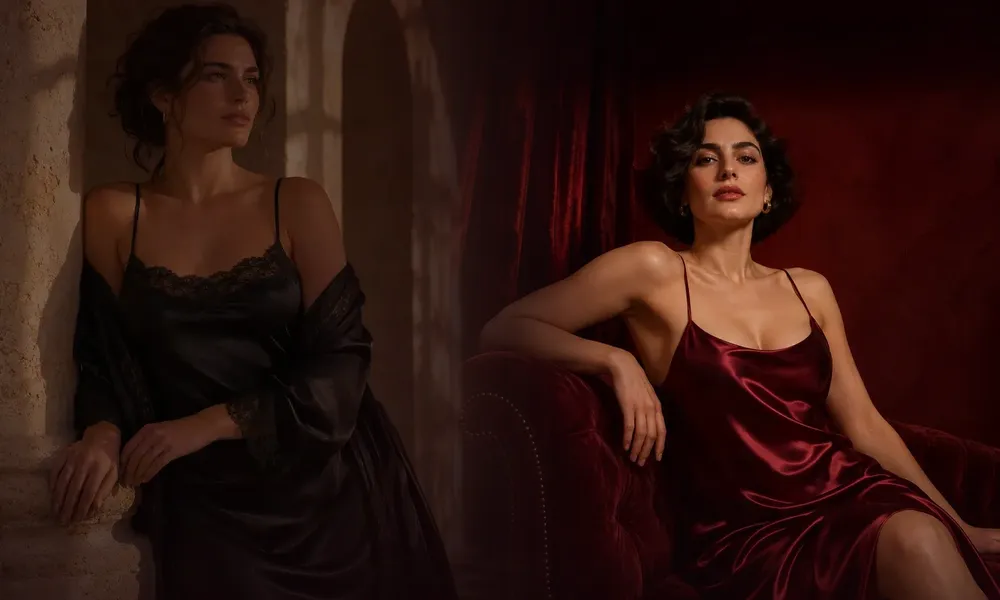
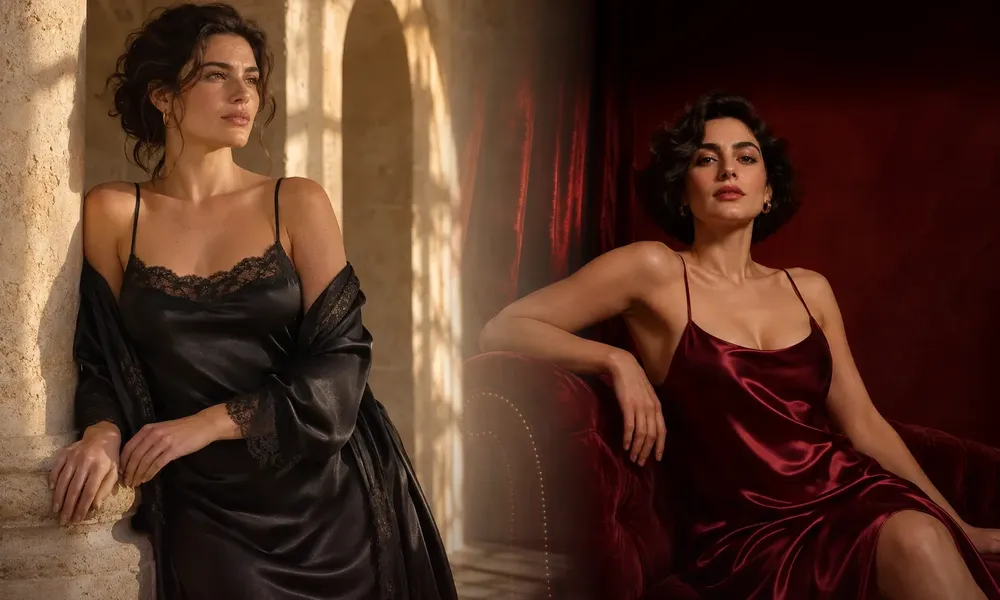
Split hero: both looks at full colour, VS-style soft blend; no dimming on switch

diff --git a/source/prep-split-hero.js b/source/prep-split-hero.js
@@ -1,5 +1,5 @@
 // Split hero: Lavermo look (noir campaign, piece O10) on the left, Purey satin on the right,
-// graded into one wine-dark room with a soft seam.  node prep-split-hero.js  (writes ../site/img)
+// side by side at full colour, joined by a soft seam.  node prep-split-hero.js  (writes ../site/img)
 const sharp = require('C:/Users/Admin/GitHub/flann-dashboard/node_modules/sharp');
 const path = require('path');
 const IMG = path.join(__dirname, '../site/img');
@@ -7,29 +7,25 @@ const P = (f) => path.join(IMG, f);
 
 async function blend({ w, h, L, lx, lw, R, rx, rw, f }) {
   const crop = (img, x, cw) => sharp(P(img)).resize({ height: h }).extract({ left: x, top: 0, width: cw, height: h });
-  // pull the sunlit stone toward the wine room: darker, warmer, less saturated
-  let left = await crop(L, lx, lw).modulate({ brightness: 0.74, saturation: 0.82 }).toBuffer();
-  const tint = await sharp({ create: { width: lw, height: h, channels: 4, background: { r: 120, g: 28, b: 40, alpha: 0.34 } } }).png().toBuffer();
-  // the sunlit arch beside the seam falls into the same shadow as the velvet curtain
-  const edge = Buffer.from(`<svg width="${lw}" height="${h}"><defs><linearGradient id="e" x1="0" x2="1"><stop offset=".5" stop-color="#1a0609" stop-opacity="0"/><stop offset="1" stop-color="#1a0609" stop-opacity=".78"/></linearGradient></defs><rect width="100%" height="100%" fill="url(#e)"/></svg>`);
-  left = await sharp(left).composite([{ input: tint, blend: 'soft-light' }, { input: tint, blend: 'multiply' }, { input: edge }]).toBuffer();
+  // both looks keep their own colour (VS / PINK style): no grading, only a soft blend at the seam
+  const left = await crop(L, lx, lw).toBuffer();
   const right = await crop(R, rx, rw).toBuffer();
   const mask = Buffer.from(`<svg width="${rw}" height="${h}"><defs><linearGradient id="g" x1="0" x2="1"><stop offset="0" stop-color="#fff" stop-opacity="0"/><stop offset="${f / rw}" stop-color="#fff"/></linearGradient></defs><rect width="100%" height="100%" fill="url(#g)"/></svg>`);
   const rightM = await sharp(right).ensureAlpha().composite([{ input: mask, blend: 'dest-in' }]).png().toBuffer();
   const seam = w - rw;
+  if (lw < seam + f) throw new Error('left look must reach under the whole seam');
   const shade = Buffer.from(`<svg width="${w}" height="${h}"><defs>
-    <linearGradient id="s" x1="0" x2="1"><stop offset="${(seam - f * 0.4) / w}" stop-color="#14060a" stop-opacity="0"/><stop offset="${(seam + f * 0.5) / w}" stop-color="#14060a" stop-opacity=".45"/><stop offset="${(seam + f * 1.3) / w}" stop-color="#14060a" stop-opacity="0"/></linearGradient>
-    <linearGradient id="v" x1="0" y1="0" x2="0" y2="1"><stop offset="0" stop-color="#14060a" stop-opacity=".25"/><stop offset=".35" stop-color="#14060a" stop-opacity="0"/><stop offset=".7" stop-color="#14060a" stop-opacity="0"/><stop offset="1" stop-color="#14060a" stop-opacity=".55"/></linearGradient>
-    </defs><rect width="100%" height="100%" fill="url(#s)"/><rect width="100%" height="100%" fill="url(#v)"/></svg>`);
+        <linearGradient id="v" x1="0" y1="0" x2="0" y2="1"><stop offset="0" stop-color="#14060a" stop-opacity="0"/><stop offset=".35" stop-color="#14060a" stop-opacity="0"/><stop offset=".7" stop-color="#14060a" stop-opacity="0"/><stop offset="1" stop-color="#14060a" stop-opacity=".35"/></linearGradient>
+    </defs><rect width="100%" height="100%" fill="url(#v)"/></svg>`);
   return sharp({ create: { width: w, height: h, channels: 3, background: '#1a0609' } })
     .composite([{ input: left, left: 0, top: 0 }, { input: rightM, left: seam, top: 0 }, { input: shade, left: 0, top: 0 }]).png().toBuffer();
 }
 
 (async () => {
-  const wide = await blend({ w: 1600, h: 960, L: 'purey-noir-wide-1440.webp', lx: 60, lw: 880, R: 'purey-satin-wide-1440.webp', rx: 0, rw: 900, f: 260 });
+  const wide = await blend({ w: 1600, h: 960, L: 'purey-noir-wide-1440.webp', lx: 60, lw: 960, R: 'purey-satin-wide-1440.webp', rx: 0, rw: 900, f: 260 });
   await sharp(wide).webp({ quality: 82 }).toFile(P('hero-split-1600.webp'));
   await sharp(wide).resize({ width: 1000 }).webp({ quality: 80 }).toFile(P('hero-split-1000.webp'));
-  const mob = await blend({ w: 680, h: 1200, L: 'purey-noir-mobile-800.webp', lx: 120, lw: 370, R: 'purey-satin-mobile-800.webp', rx: 225, rw: 340, f: 34 });
+  const mob = await blend({ w: 680, h: 1200, L: 'purey-noir-mobile-800.webp', lx: 120, lw: 410, R: 'purey-satin-mobile-800.webp', rx: 225, rw: 340, f: 70 });
   await sharp(mob).webp({ quality: 80 }).toFile(P('hero-split-mobile-680.webp'));
   await sharp(mob).resize({ width: 440 }).webp({ quality: 80 }).toFile(P('hero-split-mobile-440.webp'));
   console.log('split hero written');

diff --git a/site/index.html b/site/index.html
@@ -1843,10 +1843,6 @@ dialog.sheet.editorial-drawer{
 .campaign-split img{object-position:center 18%}
 .campaign-split::after{content:"";position:absolute;inset:auto 0 0;height:42%;z-index:-1;pointer-events:none;
   background:linear-gradient(to top,rgba(20,6,10,.82),transparent)}
-/* Lavermo selected: the Purey half (physical right) steps back */
-.campaign-split .split-dim{position:absolute;inset:0;z-index:-1;pointer-events:none;opacity:0;transition:opacity .5s ease;
-  background:linear-gradient(to left,rgba(14,4,7,.66) 0 42%,transparent 58%)}
-html[data-brand="lavermo"] .campaign-split .split-dim{opacity:1}
 .campaign-split .campaign-copy{position:relative;right:auto;left:auto;top:auto;bottom:auto;translate:none;
   justify-self:center;justify-items:center;text-align:center;gap:16px}
 .campaign-split .campaign-title{contain:none;white-space:normal;font:400 clamp(30px,3.1vw,46px)/1.15 var(--f-serif);
@@ -1858,7 +1854,6 @@ html[data-brand="lavermo"] .campaign-split .split-dim{opacity:1}
   .campaign-split .campaign-title{font-size:clamp(26px,7.4vw,32px)}
   .campaign-split .campaign-action{min-height:48px;padding-inline:26px;font-size:15px}
 }
-@media(prefers-reduced-motion:reduce){ .campaign-split .split-dim{transition:none} }
 
 .brand-tabs{display:grid;grid-template-columns:1fr 1fr;width:100%;background:#fff;border-block:1px solid #e7e7e7}
 .brand-tab{position:relative;display:grid;place-items:center;min-height:clamp(54px,5.2vw,72px);margin:0;padding:0 12px;
@@ -1947,9 +1942,7 @@ html[data-brand="lavermo"] .campaign-split .split-dim{opacity:1}
         <picture>
           <source media="(max-width: 700px)" srcset="img/hero-split-mobile-440.webp 440w, img/hero-split-mobile-680.webp 680w" sizes="100vw">
           <img src="img/hero-split-1600.webp" srcset="img/hero-split-1000.webp 1000w, img/hero-split-1600.webp 1600w" sizes="100vw" width="1600" height="960" alt="إطلالتان: قميص نوم أسود بالدانتيل مع روب من Lavermo، وقميص نوم ستان عنابي من بيوري" fetchpriority="high">
-        </picture>
-        <span class="split-dim" aria-hidden="true"></span>
-        <div class="campaign-copy">
+        </picture>        <div class="campaign-copy">
           <h1 class="campaign-title" id="purey-campaign">أفضل كولكشن في ليبيا</h1>
           <a class="campaign-action" href="#cats"><img class="campaign-butterfly" src="img/logo-icon.png" alt="" width="293" height="179"><span class="campaign-action-label">تصفّح كل التشكيلات</span></a>
         </div>

diff --git a/source/purey-src.html b/source/purey-src.html
@@ -1016,10 +1016,6 @@ html.ask-visible .ai-launch{opacity:0;transform:scale(.9);pointer-events:none}
 .campaign-split img{object-position:center 18%}
 .campaign-split::after{content:"";position:absolute;inset:auto 0 0;height:42%;z-index:-1;pointer-events:none;
   background:linear-gradient(to top,rgba(20,6,10,.82),transparent)}
-/* Lavermo selected: the Purey half (physical right) steps back */
-.campaign-split .split-dim{position:absolute;inset:0;z-index:-1;pointer-events:none;opacity:0;transition:opacity .5s ease;
-  background:linear-gradient(to left,rgba(14,4,7,.66) 0 42%,transparent 58%)}
-html[data-brand="lavermo"] .campaign-split .split-dim{opacity:1}
 .campaign-split .campaign-copy{position:relative;right:auto;left:auto;top:auto;bottom:auto;translate:none;
   justify-self:center;justify-items:center;text-align:center;gap:16px}
 .campaign-split .campaign-title{contain:none;white-space:normal;font:400 clamp(30px,3.1vw,46px)/1.15 var(--f-serif);
@@ -1031,7 +1027,6 @@ html[data-brand="lavermo"] .campaign-split .split-dim{opacity:1}
   .campaign-split .campaign-title{font-size:clamp(26px,7.4vw,32px)}
   .campaign-split .campaign-action{min-height:48px;padding-inline:26px;font-size:15px}
 }
-@media(prefers-reduced-motion:reduce){ .campaign-split .split-dim{transition:none} }
 </style>
 
 <div class="page" dir="rtl" lang="ar">
@@ -1074,9 +1069,7 @@ html[data-brand="lavermo"] .campaign-split .split-dim{opacity:1}
         <picture>
           <source media="(max-width: 700px)" srcset="img/hero-split-mobile-440.webp 440w, img/hero-split-mobile-680.webp 680w" sizes="100vw">
           <img src="img/hero-split-1600.webp" srcset="img/hero-split-1000.webp 1000w, img/hero-split-1600.webp 1600w" sizes="100vw" width="1600" height="960" alt="إطلالتان: قميص نوم أسود بالدانتيل مع روب من Lavermo، وقميص نوم ستان عنابي من بيوري" fetchpriority="high">
-        </picture>
-        <span class="split-dim" aria-hidden="true"></span>
-        <div class="campaign-copy">
+        </picture>        <div class="campaign-copy">
           <h1 class="campaign-title" id="purey-campaign">أفضل كولكشن في ليبيا</h1>
           <a class="campaign-action" href="#cats"><img class="campaign-butterfly" src="img/logo-icon.png" alt="" width="293" height="179"><span class="campaign-action-label">تصفّح كل التشكيلات</span></a>
         </div>

diff --git a/site/cotton.html b/site/cotton.html
@@ -1842,10 +1842,6 @@ dialog.sheet.editorial-drawer{
 .campaign-split img{object-position:center 18%}
 .campaign-split::after{content:"";position:absolute;inset:auto 0 0;height:42%;z-index:-1;pointer-events:none;
   background:linear-gradient(to top,rgba(20,6,10,.82),transparent)}
-/* Lavermo selected: the Purey half (physical right) steps back */
-.campaign-split .split-dim{position:absolute;inset:0;z-index:-1;pointer-events:none;opacity:0;transition:opacity .5s ease;
-  background:linear-gradient(to left,rgba(14,4,7,.66) 0 42%,transparent 58%)}
-html[data-brand="lavermo"] .campaign-split .split-dim{opacity:1}
 .campaign-split .campaign-copy{position:relative;right:auto;left:auto;top:auto;bottom:auto;translate:none;
   justify-self:center;justify-items:center;text-align:center;gap:16px}
 .campaign-split .campaign-title{contain:none;white-space:normal;font:400 clamp(30px,3.1vw,46px)/1.15 var(--f-serif);
@@ -1857,7 +1853,6 @@ html[data-brand="lavermo"] .campaign-split .split-dim{opacity:1}
   .campaign-split .campaign-title{font-size:clamp(26px,7.4vw,32px)}
   .campaign-split .campaign-action{min-height:48px;padding-inline:26px;font-size:15px}
 }
-@media(prefers-reduced-motion:reduce){ .campaign-split .split-dim{transition:none} }
 
 .brand-tabs{display:grid;grid-template-columns:1fr 1fr;width:100%;background:#fff;border-block:1px solid #e7e7e7}
 .brand-tab{position:relative;display:grid;place-items:center;min-height:clamp(54px,5.2vw,72px);margin:0;padding:0 12px;

diff --git a/site/lavermo.html b/site/lavermo.html
@@ -1842,10 +1842,6 @@ dialog.sheet.editorial-drawer{
 .campaign-split img{object-position:center 18%}
 .campaign-split::after{content:"";position:absolute;inset:auto 0 0;height:42%;z-index:-1;pointer-events:none;
   background:linear-gradient(to top,rgba(20,6,10,.82),transparent)}
-/* Lavermo selected: the Purey half (physical right) steps back */
-.campaign-split .split-dim{position:absolute;inset:0;z-index:-1;pointer-events:none;opacity:0;transition:opacity .5s ease;
-  background:linear-gradient(to left,rgba(14,4,7,.66) 0 42%,transparent 58%)}
-html[data-brand="lavermo"] .campaign-split .split-dim{opacity:1}
 .campaign-split .campaign-copy{position:relative;right:auto;left:auto;top:auto;bottom:auto;translate:none;
   justify-self:center;justify-items:center;text-align:center;gap:16px}
 .campaign-split .campaign-title{contain:none;white-space:normal;font:400 clamp(30px,3.1vw,46px)/1.15 var(--f-serif);
@@ -1857,7 +1853,6 @@ html[data-brand="lavermo"] .campaign-split .split-dim{opacity:1}
   .campaign-split .campaign-title{font-size:clamp(26px,7.4vw,32px)}
   .campaign-split .campaign-action{min-height:48px;padding-inline:26px;font-size:15px}
 }
-@media(prefers-reduced-motion:reduce){ .campaign-split .split-dim{transition:none} }
 
 .brand-tabs{display:grid;grid-template-columns:1fr 1fr;width:100%;background:#fff;border-block:1px solid #e7e7e7}
 .brand-tab{position:relative;display:grid;place-items:center;min-height:clamp(54px,5.2vw,72px);margin:0;padding:0 12px;

diff --git a/site/lingerie.html b/site/lingerie.html
@@ -1842,10 +1842,6 @@ dialog.sheet.editorial-drawer{
 .campaign-split img{object-position:center 18%}
 .campaign-split::after{content:"";position:absolute;inset:auto 0 0;height:42%;z-index:-1;pointer-events:none;
   background:linear-gradient(to top,rgba(20,6,10,.82),transparent)}
-/* Lavermo selected: the Purey half (physical right) steps back */
-.campaign-split .split-dim{position:absolute;inset:0;z-index:-1;pointer-events:none;opacity:0;transition:opacity .5s ease;
-  background:linear-gradient(to left,rgba(14,4,7,.66) 0 42%,transparent 58%)}
-html[data-brand="lavermo"] .campaign-split .split-dim{opacity:1}
 .campaign-split .campaign-copy{position:relative;right:auto;left:auto;top:auto;bottom:auto;translate:none;
   justify-self:center;justify-items:center;text-align:center;gap:16px}
 .campaign-split .campaign-title{contain:none;white-space:normal;font:400 clamp(30px,3.1vw,46px)/1.15 var(--f-serif);
@@ -1857,7 +1853,6 @@ html[data-brand="lavermo"] .campaign-split .split-dim{opacity:1}
   .campaign-split .campaign-title{font-size:clamp(26px,7.4vw,32px)}
   .campaign-split .campaign-action{min-height:48px;padding-inline:26px;font-size:15px}
 }
-@media(prefers-reduced-motion:reduce){ .campaign-split .split-dim{transition:none} }
 
 .brand-tabs{display:grid;grid-template-columns:1fr 1fr;width:100%;background:#fff;border-block:1px solid #e7e7e7}
 .brand-tab{position:relative;display:grid;place-items:center;min-height:clamp(54px,5.2vw,72px);margin:0;padding:0 12px;

diff --git a/site/product-pages.css b/site/product-pages.css
@@ -1832,10 +1832,6 @@ dialog.sheet.editorial-drawer{
 .campaign-split img{object-position:center 18%}
 .campaign-split::after{content:"";position:absolute;inset:auto 0 0;height:42%;z-index:-1;pointer-events:none;
   background:linear-gradient(to top,rgba(20,6,10,.82),transparent)}
-/* Lavermo selected: the Purey half (physical right) steps back */
-.campaign-split .split-dim{position:absolute;inset:0;z-index:-1;pointer-events:none;opacity:0;transition:opacity .5s ease;
-  background:linear-gradient(to left,rgba(14,4,7,.66) 0 42%,transparent 58%)}
-html[data-brand="lavermo"] .campaign-split .split-dim{opacity:1}
 .campaign-split .campaign-copy{position:relative;right:auto;left:auto;top:auto;bottom:auto;translate:none;
   justify-self:center;justify-items:center;text-align:center;gap:16px}
 .campaign-split .campaign-title{contain:none;white-space:normal;font:400 clamp(30px,3.1vw,46px)/1.15 var(--f-serif);
@@ -1847,7 +1843,6 @@ html[data-brand="lavermo"] .campaign-split .split-dim{opacity:1}
   .campaign-split .campaign-title{font-size:clamp(26px,7.4vw,32px)}
   .campaign-split .campaign-action{min-height:48px;padding-inline:26px;font-size:15px}
 }
-@media(prefers-reduced-motion:reduce){ .campaign-split .split-dim{transition:none} }
 
 .brand-tabs{display:grid;grid-template-columns:1fr 1fr;width:100%;background:#fff;border-block:1px solid #e7e7e7}
 .brand-tab{position:relative;display:grid;place-items:center;min-height:clamp(54px,5.2vw,72px);margin:0;padding:0 12px;

diff --git a/site/robes.html b/site/robes.html
@@ -1842,10 +1842,6 @@ dialog.sheet.editorial-drawer{
 .campaign-split img{object-position:center 18%}
 .campaign-split::after{content:"";position:absolute;inset:auto 0 0;height:42%;z-index:-1;pointer-events:none;
   background:linear-gradient(to top,rgba(20,6,10,.82),transparent)}
-/* Lavermo selected: the Purey half (physical right) steps back */
-.campaign-split .split-dim{position:absolute;inset:0;z-index:-1;pointer-events:none;opacity:0;transition:opacity .5s ease;
-  background:linear-gradient(to left,rgba(14,4,7,.66) 0 42%,transparent 58%)}
-html[data-brand="lavermo"] .campaign-split .split-dim{opacity:1}
 .campaign-split .campaign-copy{position:relative;right:auto;left:auto;top:auto;bottom:auto;translate:none;
   justify-self:center;justify-items:center;text-align:center;gap:16px}
 .campaign-split .campaign-title{contain:none;white-space:normal;font:400 clamp(30px,3.1vw,46px)/1.15 var(--f-serif);
@@ -1857,7 +1853,6 @@ html[data-brand="lavermo"] .campaign-split .split-dim{opacity:1}
   .campaign-split .campaign-title{font-size:clamp(26px,7.4vw,32px)}
   .campaign-split .campaign-action{min-height:48px;padding-inline:26px;font-size:15px}
 }
-@media(prefers-reduced-motion:reduce){ .campaign-split .split-dim{transition:none} }
 
 .brand-tabs{display:grid;grid-template-columns:1fr 1fr;width:100%;background:#fff;border-block:1px solid #e7e7e7}
 .brand-tab{position:relative;display:grid;place-items:center;min-height:clamp(54px,5.2vw,72px);margin:0;padding:0 12px;

diff --git a/site/satin.html b/site/satin.html
@@ -1842,10 +1842,6 @@ dialog.sheet.editorial-drawer{
 .campaign-split img{object-position:center 18%}
 .campaign-split::after{content:"";position:absolute;inset:auto 0 0;height:42%;z-index:-1;pointer-events:none;
   background:linear-gradient(to top,rgba(20,6,10,.82),transparent)}
-/* Lavermo selected: the Purey half (physical right) steps back */
-.campaign-split .split-dim{position:absolute;inset:0;z-index:-1;pointer-events:none;opacity:0;transition:opacity .5s ease;
-  background:linear-gradient(to left,rgba(14,4,7,.66) 0 42%,transparent 58%)}
-html[data-brand="lavermo"] .campaign-split .split-dim{opacity:1}
 .campaign-split .campaign-copy{position:relative;right:auto;left:auto;top:auto;bottom:auto;translate:none;
   justify-self:center;justify-items:center;text-align:center;gap:16px}
 .campaign-split .campaign-title{contain:none;white-space:normal;font:400 clamp(30px,3.1vw,46px)/1.15 var(--f-serif);
@@ -1857,7 +1853,6 @@ html[data-brand="lavermo"] .campaign-split .split-dim{opacity:1}
   .campaign-split .campaign-title{font-size:clamp(26px,7.4vw,32px)}
   .campaign-split .campaign-action{min-height:48px;padding-inline:26px;font-size:15px}
 }
-@media(prefers-reduced-motion:reduce){ .campaign-split .split-dim{transition:none} }
 
 .brand-tabs{display:grid;grid-template-columns:1fr 1fr;width:100%;background:#fff;border-block:1px solid #e7e7e7}
 .brand-tab{position:relative;display:grid;place-items:center;min-height:clamp(54px,5.2vw,72px);margin:0;padding:0 12px;

diff --git a/site/sets.html b/site/sets.html
@@ -1842,10 +1842,6 @@ dialog.sheet.editorial-drawer{
 .campaign-split img{object-position:center 18%}
 .campaign-split::after{content:"";position:absolute;inset:auto 0 0;height:42%;z-index:-1;pointer-events:none;
   background:linear-gradient(to top,rgba(20,6,10,.82),transparent)}
-/* Lavermo selected: the Purey half (physical right) steps back */
-.campaign-split .split-dim{position:absolute;inset:0;z-index:-1;pointer-events:none;opacity:0;transition:opacity .5s ease;
-  background:linear-gradient(to left,rgba(14,4,7,.66) 0 42%,transparent 58%)}
-html[data-brand="lavermo"] .campaign-split .split-dim{opacity:1}
 .campaign-split .campaign-copy{position:relative;right:auto;left:auto;top:auto;bottom:auto;translate:none;
   justify-self:center;justify-items:center;text-align:center;gap:16px}
 .campaign-split .campaign-title{contain:none;white-space:normal;font:400 clamp(30px,3.1vw,46px)/1.15 var(--f-serif);
@@ -1857,7 +1853,6 @@ html[data-brand="lavermo"] .campaign-split .split-dim{opacity:1}
   .campaign-split .campaign-title{font-size:clamp(26px,7.4vw,32px)}
   .campaign-split .campaign-action{min-height:48px;padding-inline:26px;font-size:15px}
 }
-@media(prefers-reduced-motion:reduce){ .campaign-split .split-dim{transition:none} }
 
 .brand-tabs{display:grid;grid-template-columns:1fr 1fr;width:100%;background:#fff;border-block:1px solid #e7e7e7}
 .brand-tab{position:relative;display:grid;place-items:center;min-height:clamp(54px,5.2vw,72px);margin:0;padding:0 12px;
